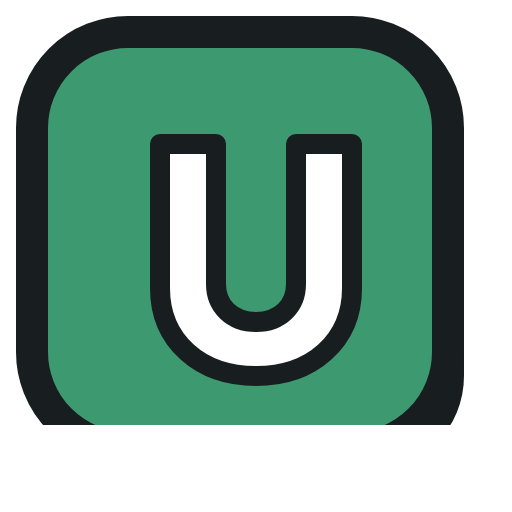
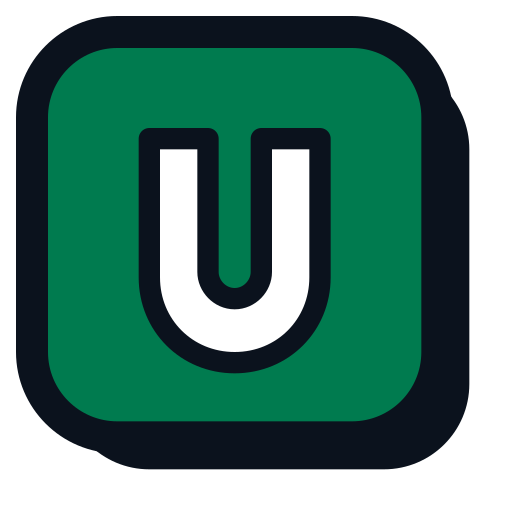
feat(pwa): ikon sesuai token merek dan kartu bagikan Open Graph
Ikon lama memakai warna di luar DESIGN.md (#3D9970 dan #10b981), dan satu berkas
dipakai untuk `any` sekaligus `maskable`, sehingga peluncur Android memotong
monogramnya. Sekarang sumber SVG tunggal di `scripts/brand/` dirasterkan oleh
`scripts/generate-brand-assets.mjs` (sharp, sudah jadi dependensi):

- `icon-192/512.png` untuk `any`, `icon-maskable-192/512.png` dengan latar penuh
  (monogram berada 173 px dari pusat, di dalam zona aman 205 px), dan
  `apple-touch-icon.png` 180 px.
- Warna brand diambil dari token: teal-500 `#007B4F`, ink neutral-900 `#0B121D`.
- `og-image.png` 1200x630 untuk pratinjau tautan. Skrip menolak build bila ada teks
  yang melebihi kotaknya, karena font pengganti di host build lebih lebar.

SEO dan bagikan:

- `+layout.svelte` mengirim `canonical`, `og:*`, `twitter:*`, dan JSON-LD
  `WebApplication`, semuanya absolut terhadap host yang melayani permintaan, jadi
  pratinjau benar di `akularping.my.id` dan di `*.workers.dev`.
- `static/sitemap.xml` baru, `robots.txt` hanya mengizinkan `/login`, `/register`
  dan aset kartu bagikan.
- `app.html` memuat warna tema merek, `color-scheme`, dan meta iOS; tag duplikat
  (tema, favicon, manifest) di layout dihapus.
- Service worker tidak lagi memprecache berkas khusus perayap (`og-image.png`,
  `robots.txt`, `sitemap.xml`) karena aplikasi tidak pernah memintanya.

Terverifikasi: `svelte-check` 0 error di `src/`; dev headless membaca manifest tanpa
[…]

diff --git a/uangku-app/src/routes/+layout.svelte b/uangku-app/src/routes/+layout.svelte
@@ -5,6 +5,17 @@
 	import Logo from '../lib/components/Logo.svelte';
 	import ThemeToggle from '../lib/components/ThemeToggle.svelte';
 	import { syncEngine } from '$lib/client/sync/engine.svelte';
+	import {
+		SITE_NAME,
+		SITE_TITLE,
+		SITE_DESCRIPTION,
+		OG_IMAGE_PATH,
+		OG_IMAGE_WIDTH,
+		OG_IMAGE_HEIGHT,
+		OG_IMAGE_ALT,
+		absoluteUrl,
+		webApplicationJsonLd
+	} from '$lib/shared/seo';
 
 	interface Props {
 		children: Snippet;
@@ -45,6 +56,13 @@
 		}
 		return 'Uangku';
 	});
+	// Kartu bagikan butuh URL absolut, jadi origin diambil dari permintaan yang sedang dilayani.
+	// canonical selalu menunjuk dirinya sendiri: kedua host (workers.dev dan domain sendiri)
+	// menyajikan halaman yang sama, dan tidak ada yang diklaim sebagai duplikat host lain.
+	const origin = $derived(page.url.origin);
+	const canonical = $derived(absoluteUrl(origin, page.url.pathname));
+	const ogImage = $derived(absoluteUrl(origin, OG_IMAGE_PATH));
+	const jsonLd = $derived(JSON.stringify(webApplicationJsonLd(origin)).replace(/</g, '\\u003c'));
 
 	const desktopNavItems = [
 		{ label: 'Beranda', href: '/' },
@@ -62,9 +80,27 @@
 </script>
 
 <svelte:head>
-	<link rel="icon" type="image/svg+xml" href="/favicon.svg" />
-	<link rel="manifest" href="/manifest.json" />
-	<meta name="theme-color" content="#10b981" />
+	<!-- Ikon, manifest, dan theme-color ada di src/app.html supaya tidak ada dua nilai
+	     yang berbeda untuk satu meta. Di sini hanya tag bagikan yang butuh origin permintaan. -->
+	<link rel="canonical" href={canonical} />
+	<meta property="og:site_name" content={SITE_NAME} />
+	<meta property="og:type" content="website" />
+	<meta property="og:locale" content="id_ID" />
+	<meta property="og:title" content={SITE_TITLE} />
+	<meta property="og:description" content={SITE_DESCRIPTION} />
+	<meta property="og:url" content={canonical} />
+	<meta property="og:image" content={ogImage} />
+	<meta property="og:image:type" content="image/png" />
+	<meta property="og:image:width" content={String(OG_IMAGE_WIDTH)} />
+	<meta property="og:image:height" content={String(OG_IMAGE_HEIGHT)} />
+	<meta property="og:image:alt" content={OG_IMAGE_ALT} />
+	<meta name="twitter:card" content="summary_large_image" />
+	<meta name="twitter:title" content={SITE_TITLE} />
+	<meta name="twitter:description" content={SITE_DESCRIPTION} />
+	<meta name="twitter:image" content={ogImage} />
+	<!-- Svelte tidak menerjemahkan ekspresi di dalam tag <script>, jadi blok ini disisipkan
+	     sebagai HTML mentah. Isinya konstanta, bukan masukan pengguna. -->
+	{@html `<script type="application/ld+json">${jsonLd}</script>`}
 </svelte:head>
 
 <!-- Skip to content for keyboard accessibility (WCAG AA) -->

diff --git a/uangku-app/src/app.html b/uangku-app/src/app.html
@@ -4,13 +4,20 @@
 <head>
 	<meta charset="utf-8" />
 	<meta name="viewport" content="width=device-width, initial-scale=1, viewport-fit=cover" />
-	<meta name="theme-color" content="#10b981" />
+	<meta name="color-scheme" content="light dark" />
+	<meta name="theme-color" content="#007B4F" />
 	<link rel="manifest" href="/manifest.json" />
 	<meta name="description"
-		content="Aplikasi pencatatan keuangan pribadi cepat, ringan, dan mandiri di Cloudflare Workers." />
+		content="Uangku mencatat pemasukan dan pengeluaran harian dalam rupiah. Data tersimpan di perangkat Anda, lalu disinkronkan saat online. Gratis, tanpa iklan." />
+	<meta name="format-detection" content="telephone=no" />
+	<meta name="mobile-web-app-capable" content="yes" />
+	<meta name="apple-mobile-web-app-capable" content="yes" />
+	<meta name="apple-mobile-web-app-title" content="Uangku" />
+	<meta name="apple-mobile-web-app-status-bar-style" content="default" />
 	<link rel="icon" type="image/svg+xml" href="/favicon.svg" />
-	<link rel="icon" type="image/png" sizes="512x512" href="/icon-512.png" />
-	<link rel="apple-touch-icon" href="/icon-192.png" />
+	<link rel="icon" type="image/png" sizes="32x32" href="/favicon-32.png" />
+	<link rel="icon" type="image/png" sizes="192x192" href="/icon-192.png" />
+	<link rel="apple-touch-icon" sizes="180x180" href="/apple-touch-icon.png" />
 	<link rel="preconnect" href="https://fonts.googleapis.com" />
 	<link rel="preconnect" href="https://fonts.gstatic.com" crossorigin />
 	<link

diff --git a/uangku-app/src/lib/shared/seo.ts b/uangku-app/src/lib/shared/seo.ts
@@ -1,0 +1,32 @@
+// Satu sumber untuk judul dan deskripsi yang dipakai kartu bagikan (Open Graph/Twitter).
+// Deskripsi statis ada di `src/app.html`; di sini hanya nilai tambahan yang butuh origin
+// permintaan, karena gambar dan URL harus absolut.
+export const SITE_NAME = 'Uangku';
+export const SITE_TITLE = 'Uangku — Pencatat Keuangan Pribadi';
+export const SITE_DESCRIPTION =
+	'Catat pemasukan dan pengeluaran harian dalam rupiah. Data tersimpan di perangkat Anda, lalu disinkronkan saat online. Gratis, tanpa iklan.';
+export const OG_IMAGE_PATH = '/og-image.png';
+export const OG_IMAGE_WIDTH = 1200;
+export const OG_IMAGE_HEIGHT = 630;
+export const OG_IMAGE_ALT =
+	'Kartu Uangku bertuliskan Total Saldo Bersih Rp 12.480.000 dengan lencana Uangku.';
+
+/** URL absolut terhadap host yang sedang melayani permintaan. */
+export function absoluteUrl(origin: string, path: string): string {
+	return `${origin.replace(/\/$/, '')}${path}`;
+}
+
+/** Data terstruktur untuk mesin pencari. URL memakai host permintaan, bukan host tetap. */
+export function webApplicationJsonLd(origin: string) {
+	return {
+		'@context': 'https://schema.org',
+		'@type': 'WebApplication',
+		name: SITE_NAME,
+		url: `${origin.replace(/\/$/, '')}/`,
+		description: SITE_DESCRIPTION,
+		applicationCategory: 'FinanceApplication',
+		operatingSystem: 'Any',
+		inLanguage: 'id',
+		offers: { '@type': 'Offer', price: '0', priceCurrency: 'IDR' }
+	};
+}

diff --git a/uangku-app/src/service-worker.ts b/uangku-app/src/service-worker.ts
@@ -23,10 +23,15 @@ const CACHE_NAME = `${CACHE_PREFIX}${version}`;
 /** HTML routes precached at install so an offline hard reload boots the shell. */
 const SHELL = [resolve('/'), resolve('/login')];
 
+/**
+ * Files only crawlers ask for. They must be served, but precaching them at install
+ * would spend install traffic on bytes the app itself never requests.
+ */
+const CRAWLER_ONLY = new Set(['/og-image.png', '/robots.txt', '/sitemap.xml']);
 /** `$app/manifest` entries are `{ path }`, relative to the base path. */
-const ASSET_PATHS = [...assets, ...immutable].map(
-	({ path }) => new URL(path, self.location.href).pathname
-);
+const ASSET_PATHS = [...assets, ...immutable]
+	.map(({ path }) => new URL(path, self.location.href).pathname)
+	.filter((path) => !CRAWLER_ONLY.has(path));
 
 const NAV_TIMEOUT_MS = 2500;
 const SYNC_TAG = 'uangku-outbox-sync';
